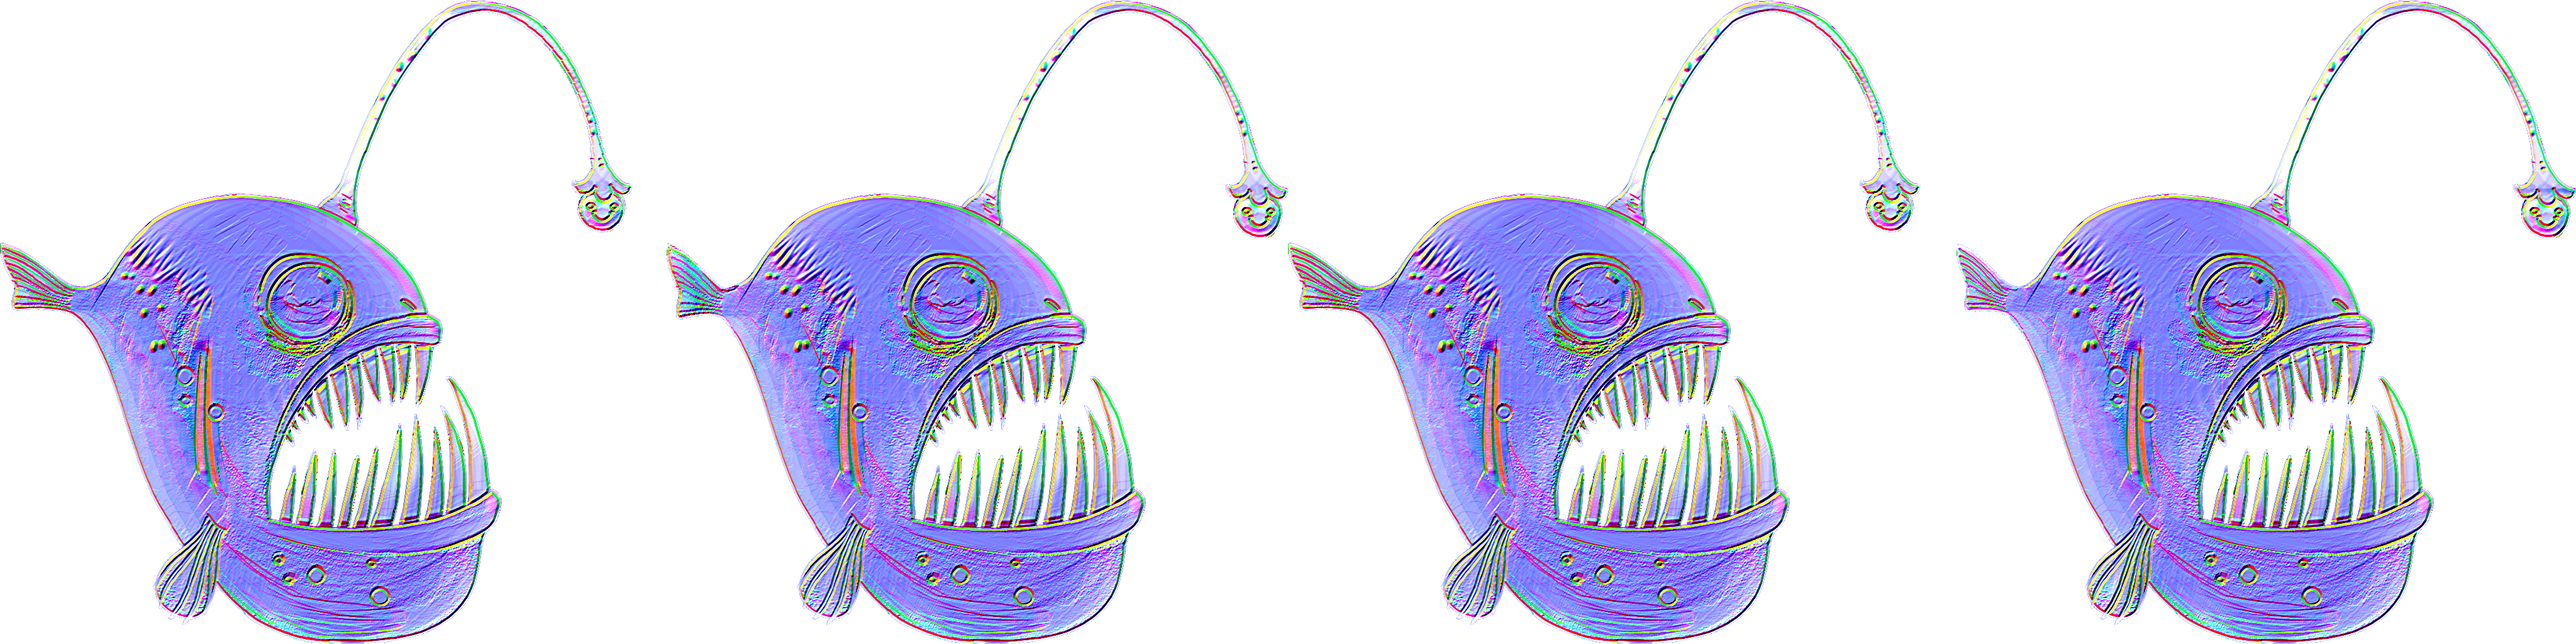
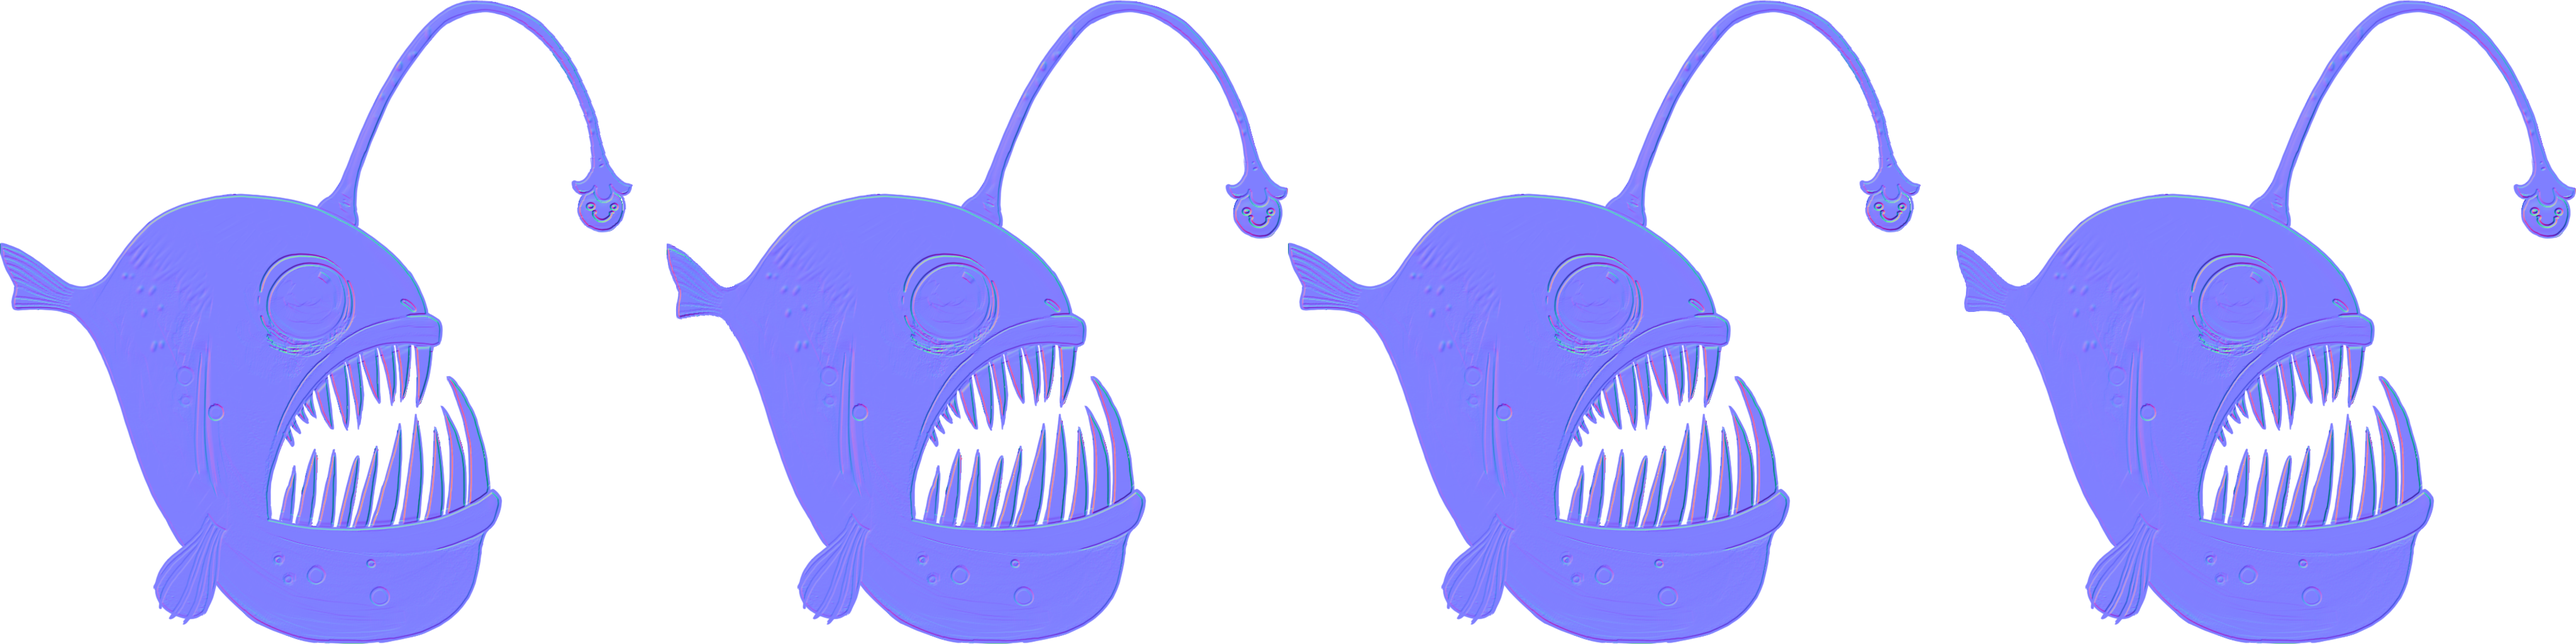
normal map changes

diff --git a/public_html/src/FishingGame/FishingLevel.js b/public_html/src/FishingGame/FishingLevel.js
@@ -140,14 +140,14 @@ FishingLevel.prototype.initialize = function () {
     this.mDirectLight.setXPos(0);
     this.mDirectLight.setYPos(0);      
     this.mDirectLight.setZPos(0);
-    var dir = vec3.fromValues(0, 0, 1);
+    var dir = vec3.fromValues(-0.2, -0.2, -1);
     this.mDirectLight.setDirection(dir);
     this.mDirectLight.setNear(10);
     this.mDirectLight.setFar(20);
     this.mDirectLight.setInner(0.1);
     this.mDirectLight.setOuter(0.2);
-    this.mDirectLight.setIntensity(1.0);
-    this.mDirectLight.setDropOff(1.0);
+    this.mDirectLight.setIntensity(2.0);
+    this.mDirectLight.setDropOff(5.0);
     
     this.mFishTextures.push(this.kFish_R);
     this.mFishTextures.push(this.kFish01_R);
@@ -238,14 +238,15 @@ FishingLevel.prototype.draw = function () {
     for(i = 0; i< this.mHooks.length; i++){
         this.mHooks[i].draw(this.mCamera);
     }
-    gEngine.DefaultResources.setGlobalAmbientIntensity(1.0);
-    
     this.mMsg.draw(this.mCamera);
+    gEngine.DefaultResources.setGlobalAmbientIntensity(0.0);
+    
+    
     
     if(this.mPause){
         gEngine.DefaultResources.setGlobalAmbientIntensity(3.0);
         this.mControlPanel.draw(this.mCamera);
-        gEngine.DefaultResources.setGlobalAmbientIntensity(1.0);
+        gEngine.DefaultResources.setGlobalAmbientIntensity(0.0);
     }
     
     if(!this.mDrawMini)return;

diff --git a/public_html/src/FishingGame/Objects/Fish SubClasses/AnglerFish.js b/public_html/src/FishingGame/Objects/Fish SubClasses/AnglerFish.js
@@ -59,7 +59,7 @@ AnglerFish.prototype.createLight = function () {
     light.setFar(6);
     light.setInner(0.5);
     light.setOuter(1.4);
-    light.setIntensity(2.2);
+    light.setIntensity(1.2);
     light.setDropOff(0.5);
 
     this.mAnglerLight = light;
